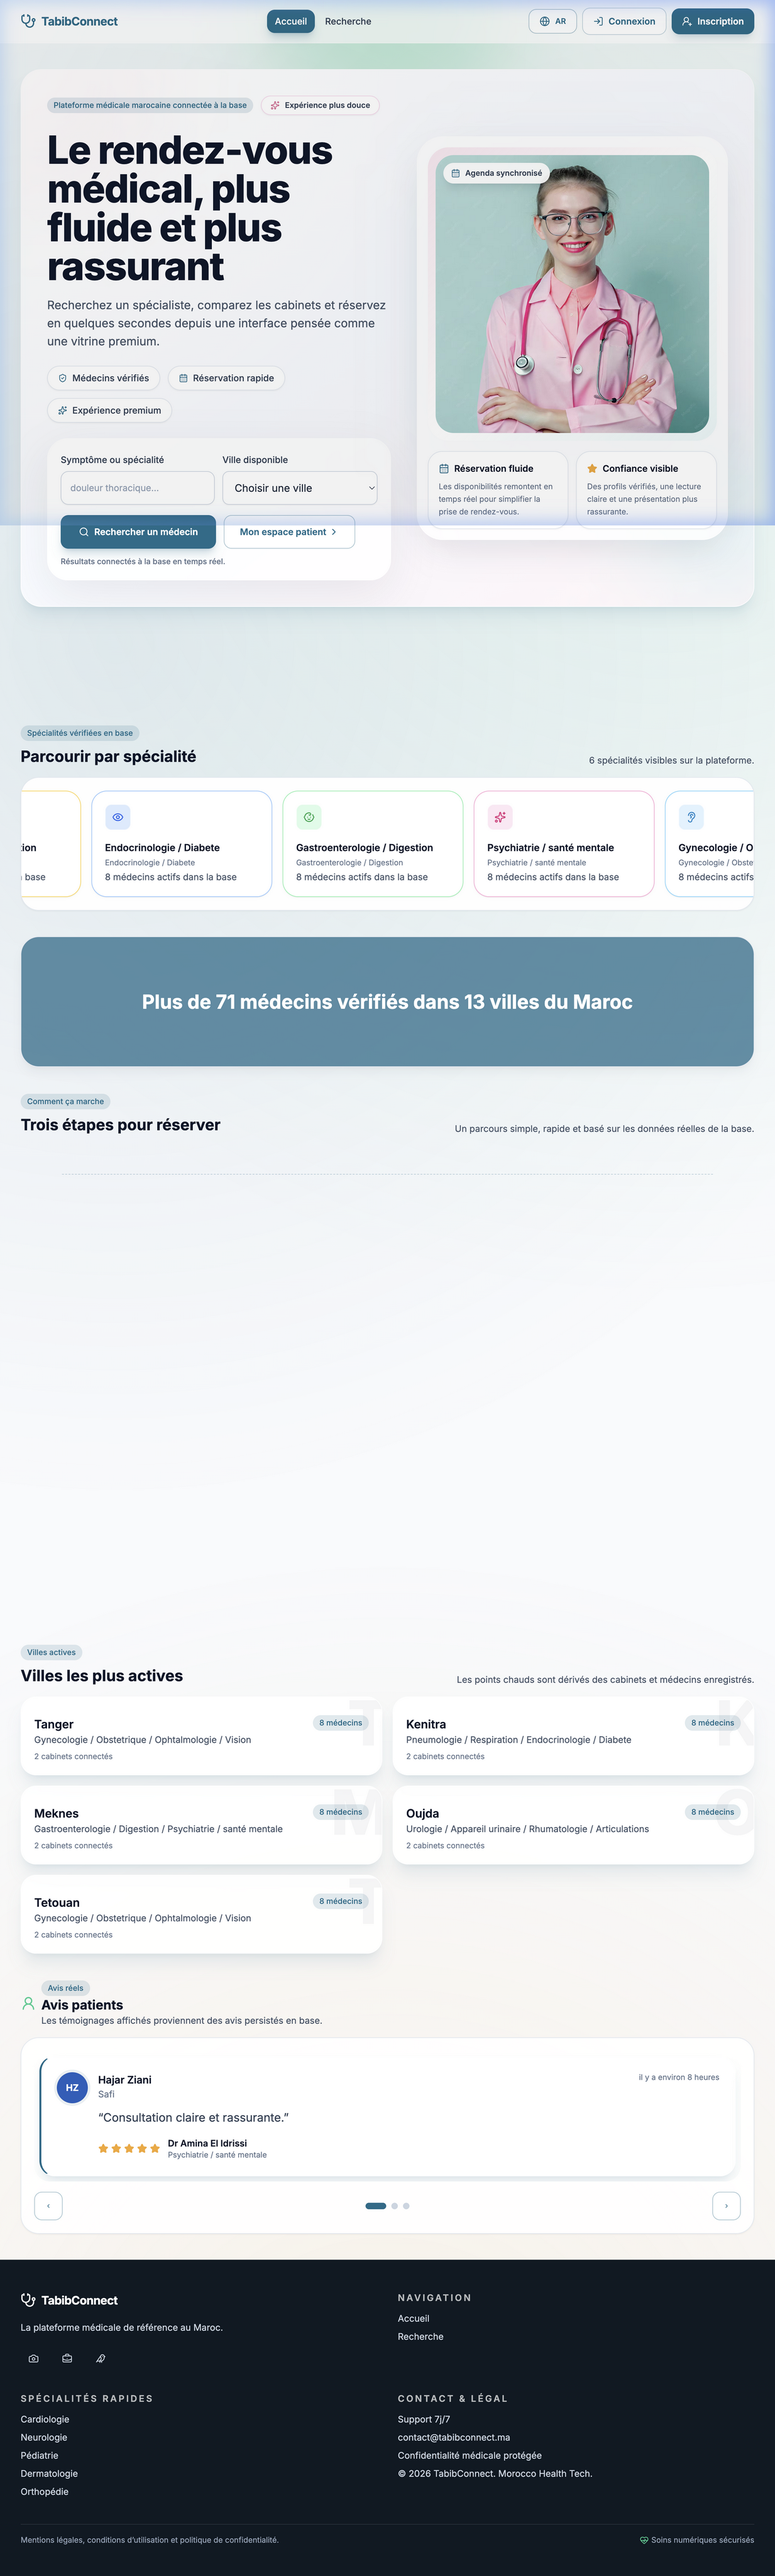
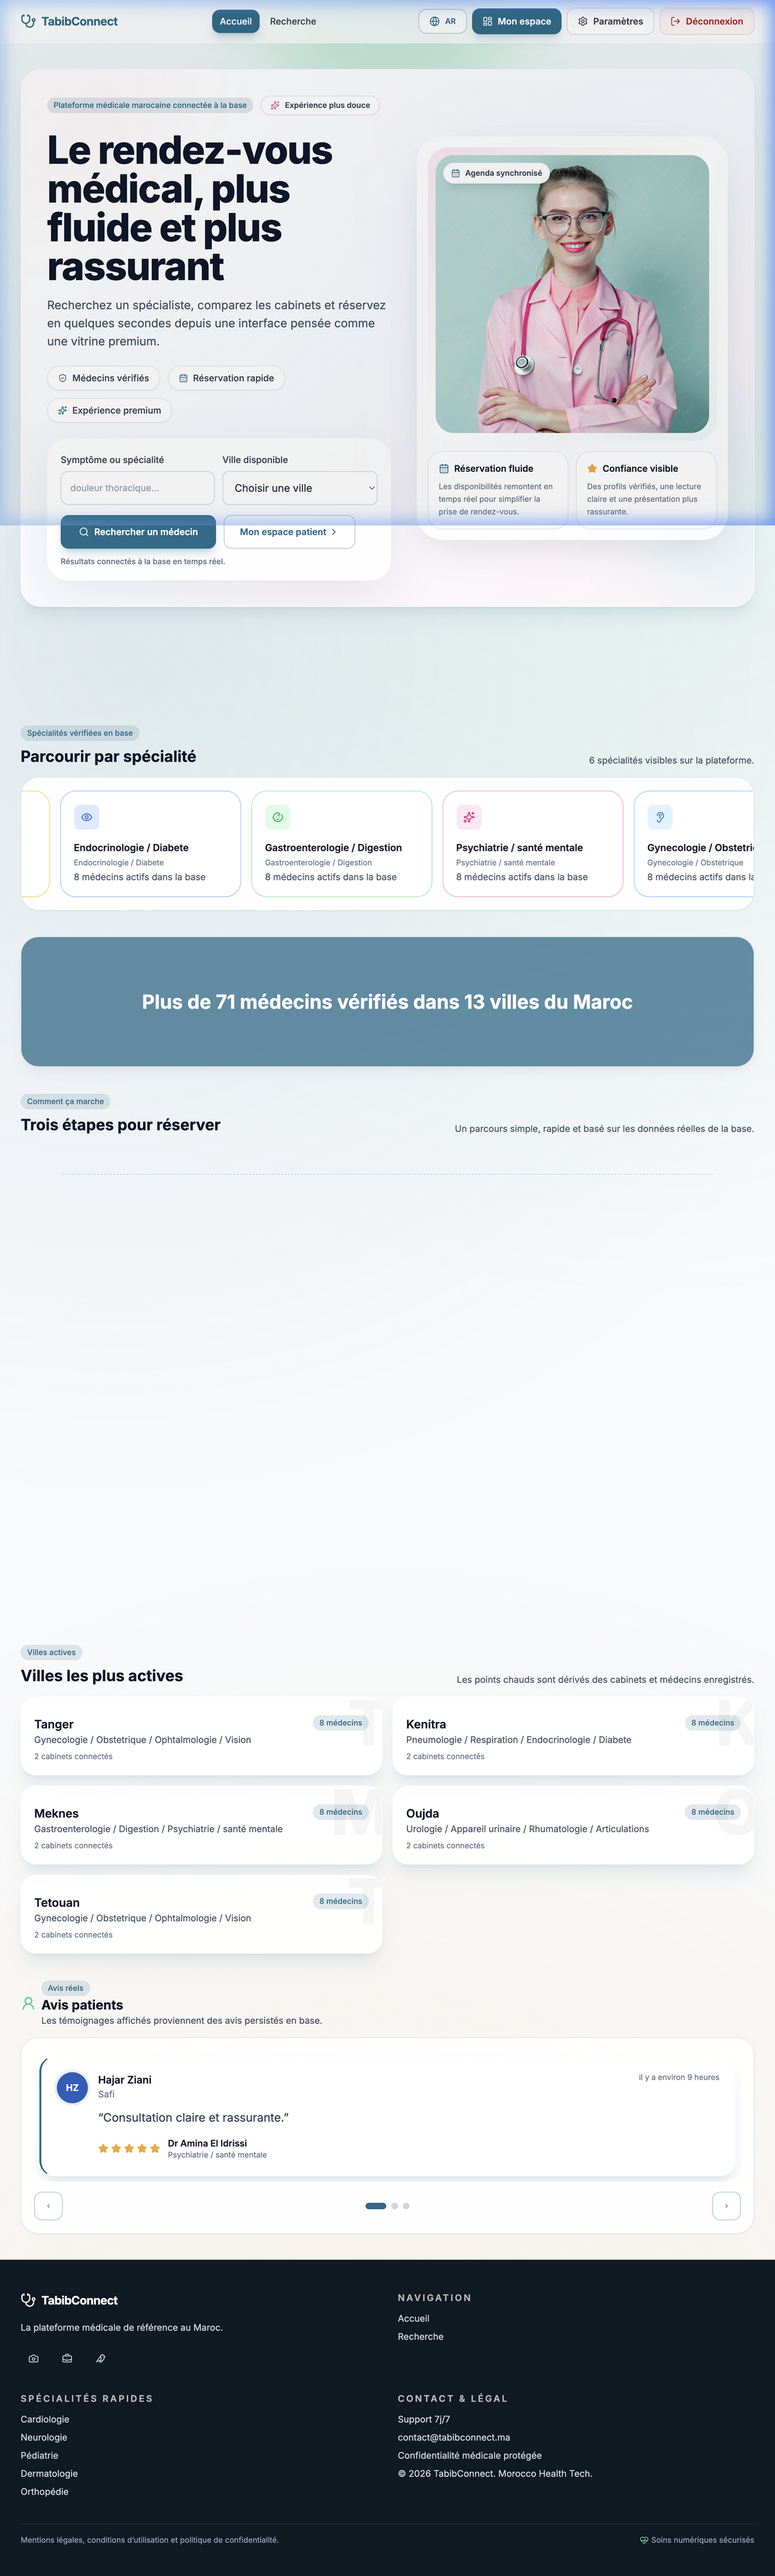
fifth commit

diff --git a/frontend/src/pages/SearchPage.jsx b/frontend/src/pages/SearchPage.jsx
@@ -2,10 +2,7 @@ import { lazy, Suspense, useEffect, useMemo, useState } from 'react';
 import { useNavigate, useSearchParams } from 'react-router-dom';
 import {
   ArrowRight,
-  CalendarClock,
-  ChevronDown,
   Filter,
-  HeartPulse,
   MapPinned,
   Search,
   ShieldCheck,
@@ -14,16 +11,13 @@ import {
   SlidersHorizontal,
   Video,
   X,
-  UserRound,
   Stethoscope,
-  MapPin,
   Clock,
 } from 'lucide-react';
 
 import AccessPromptModal from '../components/common/AccessPromptModal';
 import Skeleton from '../components/ui/Skeleton';
 import Button from '../components/ui/Button';
-import Card from '../components/ui/Card';
 import Avatar from '../components/ui/Avatar';
 import api from '../lib/api';
 import { getCurrentSession } from '../lib/auth';
@@ -123,7 +117,6 @@ function SearchPage() {
   const [filters, setFilters] = useState(() => createDefaultFilters(searchParams));
   const [sortBy, setSortBy] = useState('pertinence');
   const [currentPage, setCurrentPage] = useState(1);
-  const [viewMode, setViewMode] = useState('grid');
   const [showFiltersModal, setShowFiltersModal] = useState(false);
   const [doctors, setDoctors] = useState([]);
   const [loading, setLoading] = useState(false);
@@ -225,6 +218,67 @@ function SearchPage() {
 
     return result;
   }, [doctors, filters, sortBy]);
+
+  // Build map marker points from doctor cabinet GPS data
+  const markerPoints = useMemo(() => {
+    const points = [];
+    const seenCabinets = new Set();
+
+    filteredDoctors.forEach((doctor) => {
+      const cabinets = doctor.doctorCabinets || [];
+      cabinets.forEach((dc) => {
+        const cab = dc.cabinet;
+        if (!cab || cab.latitude == null || cab.longitude == null) return;
+        const lat = Number(cab.latitude);
+        const lng = Number(cab.longitude);
+        if (!Number.isFinite(lat) || !Number.isFinite(lng)) return;
+
+        const cabinetKey = cab.id;
+        if (seenCabinets.has(cabinetKey)) {
+          // Add doctor info to existing cabinet marker
+          const existing = points.find((p) => p.cabinetId === cabinetKey);
+          if (existing) {
+            existing.doctorNames.push(doctor.nomComplet || 'Dr.');
+            if (doctor.specialite && !existing.specialties.includes(doctor.specialite)) {
+              existing.specialties.push(doctor.specialite);
+            }
+          }
+          return;
+        }
+
+        seenCabinets.add(cabinetKey);
+
+        if (cabinets.length === 1) {
+          // Single cabinet — show individual doctor marker
+          points.push({
+            coords: [lat, lng],
+            doctorName: doctor.nomComplet || 'Dr.',
+            specialty: doctor.specialite || '',
+            tarifLabel: doctor.tarifConsultation
+              ? `${Number(doctor.tarifConsultation).toLocaleString('fr-FR')} MAD`
+              : 'Tarif non renseigné',
+            ville: cab.ville || '',
+            cabinetName: cab.nom || '',
+            cabinetId: cabinetKey,
+            profileHref: `/doctor/${doctor.id}`,
+            doctorId: doctor.id,
+          });
+        } else {
+          // Multi-doctor cabinet
+          points.push({
+            coords: [lat, lng],
+            doctorNames: [doctor.nomComplet || 'Dr.'],
+            specialties: doctor.specialite ? [doctor.specialite] : [],
+            ville: cab.ville || '',
+            cabinetName: cab.nom || '',
+            cabinetId: cabinetKey,
+          });
+        }
+      });
+    });
+
+    return points;
+  }, [filteredDoctors]);
 
   return (
     <div className="min-h-screen bg-gradient-to-br from-slate-50 via-white to-cyan-50/30">
@@ -592,6 +646,36 @@ function SearchPage() {
                 >
                   Suivant
                 </Button>
+              </div>
+            )}
+
+            {/* Map Section */}
+            {!loading && filteredDoctors.length > 0 && (
+              <div className="mt-10">
+                <div className="mb-4 flex items-center gap-2">
+                  <MapPinned size={18} className="text-[#1A6B8A]" />
+                  <h3 className="text-lg font-bold text-slate-900">Localisation des médecins</h3>
+                </div>
+                <Suspense
+                  fallback={
+                    <div className="flex h-[400px] items-center justify-center rounded-2xl border border-slate-200/60 bg-slate-50">
+                      <div className="text-center">
+                        <div className="mx-auto mb-3 h-8 w-8 animate-spin rounded-full border-4 border-[#1A6B8A] border-t-transparent" />
+                        <p className="text-sm text-slate-500">Chargement de la carte…</p>
+                      </div>
+                    </div>
+                  }
+                >
+                  <DoctorSearchMap
+                    markerPoints={markerPoints}
+                    className="h-[400px]"
+                    onMarkerProfileClick={(marker) => {
+                      if (marker.doctorId) {
+                        navigate(`/doctor/${marker.doctorId}`);
+                      }
+                    }}
+                  />
+                </Suspense>
               </div>
             )}
           </div>

diff --git a/backend/src/services/doctorService.js b/backend/src/services/doctorService.js
@@ -513,6 +513,31 @@ const searchDoctors = async (queryFilters) => {
 
   const ratingSummary = await getDoctorRatingSummary(doctorIds);
 
+  // Fetch cabinet GPS data for map markers
+  const doctorCabinetsData = await prisma.doctorCabinet.findMany({
+    where: { doctorId: { in: doctorIds } },
+    include: {
+      cabinet: {
+        select: {
+          id: true,
+          nom: true,
+          ville: true,
+          quartier: true,
+          latitude: true,
+          longitude: true,
+        },
+      },
+    },
+  });
+
+  const cabinetsByDoctorId = new Map();
+  for (const dc of doctorCabinetsData) {
+    if (!cabinetsByDoctorId.has(dc.doctorId)) {
+      cabinetsByDoctorId.set(dc.doctorId, []);
+    }
+    cabinetsByDoctorId.get(dc.doctorId).push(dc);
+  }
+
   const enrichedResults = paginatedResults.map((doctor) => {
     const photo = profilePhotoByDoctorId.get(doctor.id);
     const rating = ratingSummary.get(doctor.id) || { average: 0, count: 0 };
@@ -521,6 +546,7 @@ const searchDoctors = async (queryFilters) => {
       profilePhotoUrl: photo ? `/doctors/${doctor.id}/profile-photo?v=${photo.id}` : null,
       ratingAverage: rating.average,
       ratingCount: rating.count,
+      doctorCabinets: cabinetsByDoctorId.get(doctor.id) || [],
     };
   });
 

diff --git a/frontend/src/components/common/HomeCabinetMap.jsx b/frontend/src/components/common/HomeCabinetMap.jsx
@@ -19,10 +19,15 @@ function HomeCabinetMap() {
     staleTime: 5 * 60 * 1000,
     retry: 1,
     queryFn: async () => {
-      const response = await api.get('/doctors');
-      const doctors = response.data?.data;
+      const response = await api.get('/doctors', { params: { limit: 200 } });
+      const payload = response.data?.data;
 
-      return Array.isArray(doctors) ? doctors : [];
+      // Handle paginated response format: { items: [...], pagination: {...} }
+      if (payload && Array.isArray(payload.items)) {
+        return payload.items;
+      }
+
+      return Array.isArray(payload) ? payload : [];
     },
   });
 

diff --git a/README.md b/README.md
@@ -6,8 +6,6 @@
 
 ---
 
-{Mot de passe des compte : TabibConnect@2026}
-
 ## 📷 Visuels de la Plateforme (UI/UX)
 
 ### 1. Page d'Accueil & Navigation
@@ -18,15 +16,26 @@
 ![Search Results](frontend/public/docs/screenshots/search_results.png)
 *Le moteur de recherche affiche désormais une **pagination de 8 docteurs maximum par page**. Le nombre total de médecins trouvés est dynamiquement mis à jour pour garantir une transparence totale.*
 
-### 3. Connexion Sécurisée
+### 3. Carte interactive — Localisation des médecins
+![Search Map](frontend/public/docs/screenshots/search_map.png)
+*La carte interactive affiche les cabinets des médecins sur une carte OpenStreetMap avec des **marqueurs clusterisés**. Un clic sur un cluster zoome pour révéler les cabinets individuels avec les informations du praticien.*
+
+### 4. Connexion Sécurisée
 ![Login Page](frontend/public/docs/screenshots/login.png)
 *Interface de connexion optimisée avec gestion précise des erreurs (ex: "Identifiants incorrects" vs "Erreurs techniques").*
 
-### 4. Dashboard Médecin (Vue Agenda)
+#### 🔑 Comptes de Test
+| Rôle | Email | Mot de passe |
+| :--- | :--- | :--- |
+| **Admin** | `admin@tabibconnect.ma` | `TabibConnect@2026` |
+| **Docteur** | `dr.amine.fassi@tabibconnect.ma` | `TabibConnect@2026` |
+| **Patient** | `youssef.benali@tabibconnect.ma` | `TabibConnect@2026` |
+
+### 5. Dashboard Médecin (Vue Agenda)
 ![Doctor Dashboard](frontend/public/docs/screenshots/doctor_dashboard.png)
 *Espace de travail complet pour le praticien. Les icônes et menus sont rendus de manière fluide, et les alertes administratives sont clairement identifiées.*
 
-### 5. Dashboard Administration
+### 6. Dashboard Administration
 ![Admin Dashboard](frontend/public/docs/screenshots/admin_dashboard.png)
 *Tour de contrôle pour la validation des nouveaux inscrits et la surveillance de l'activité globale de la plateforme.*
 
